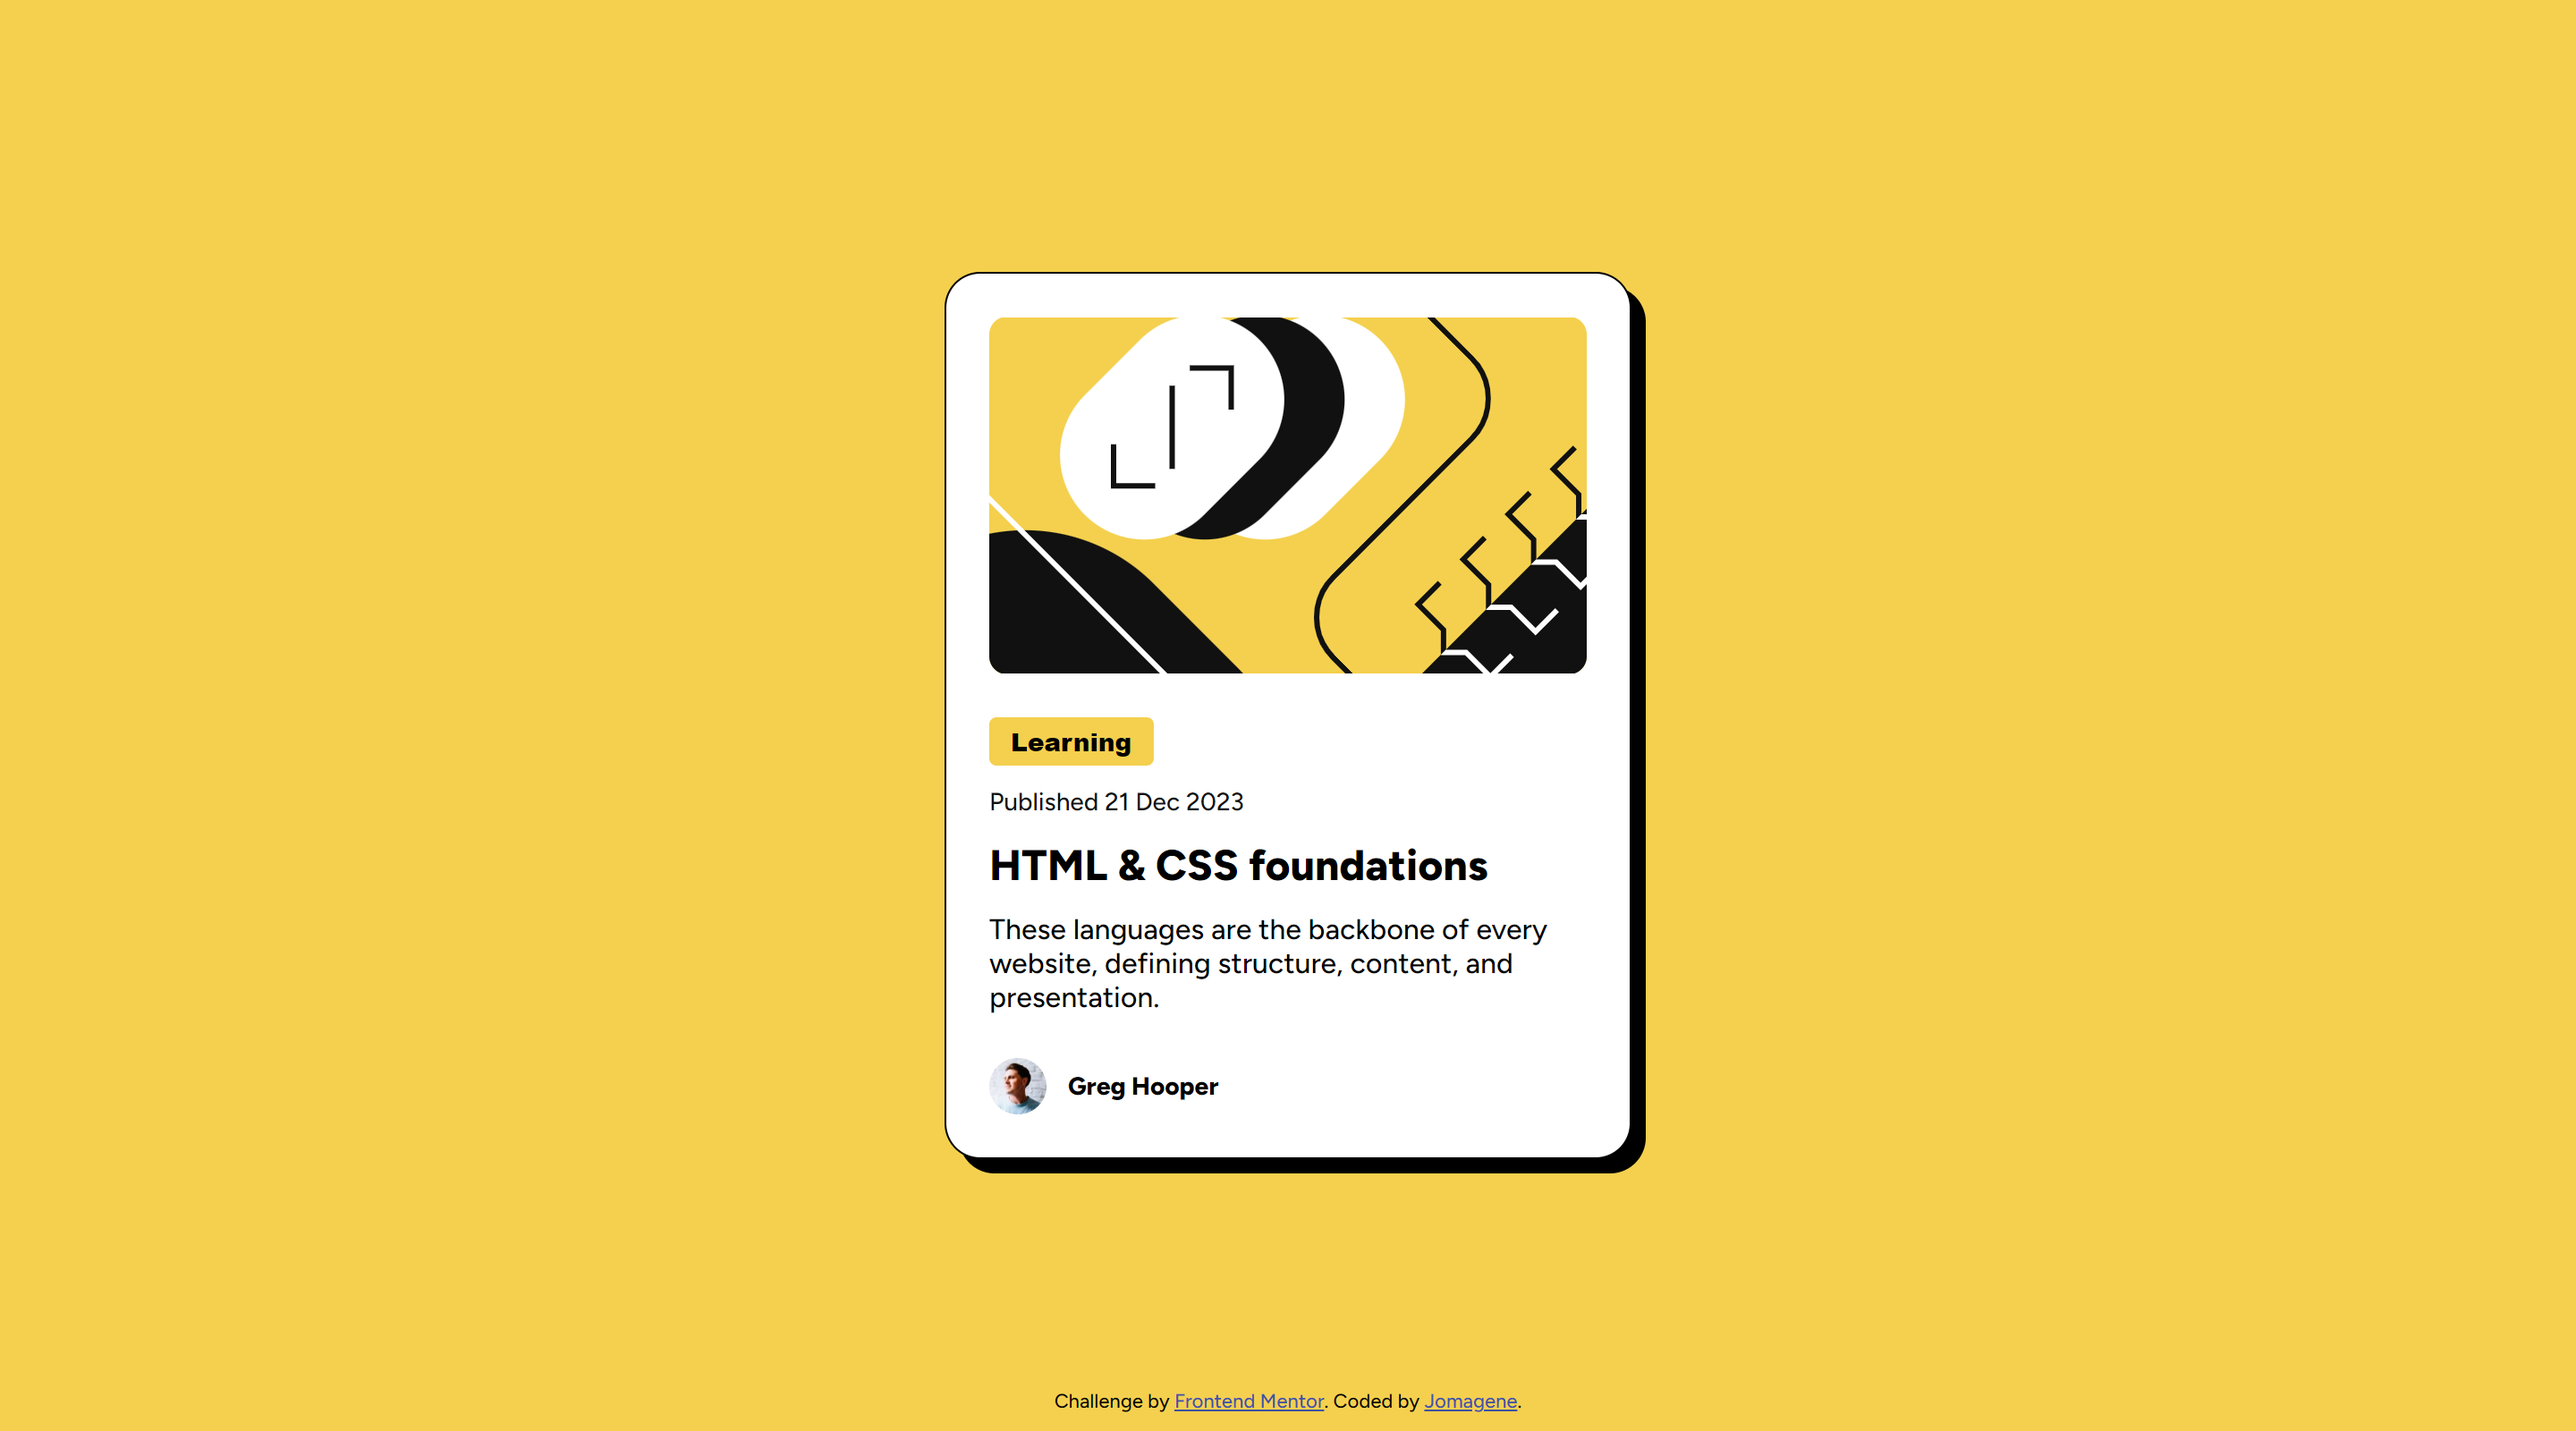
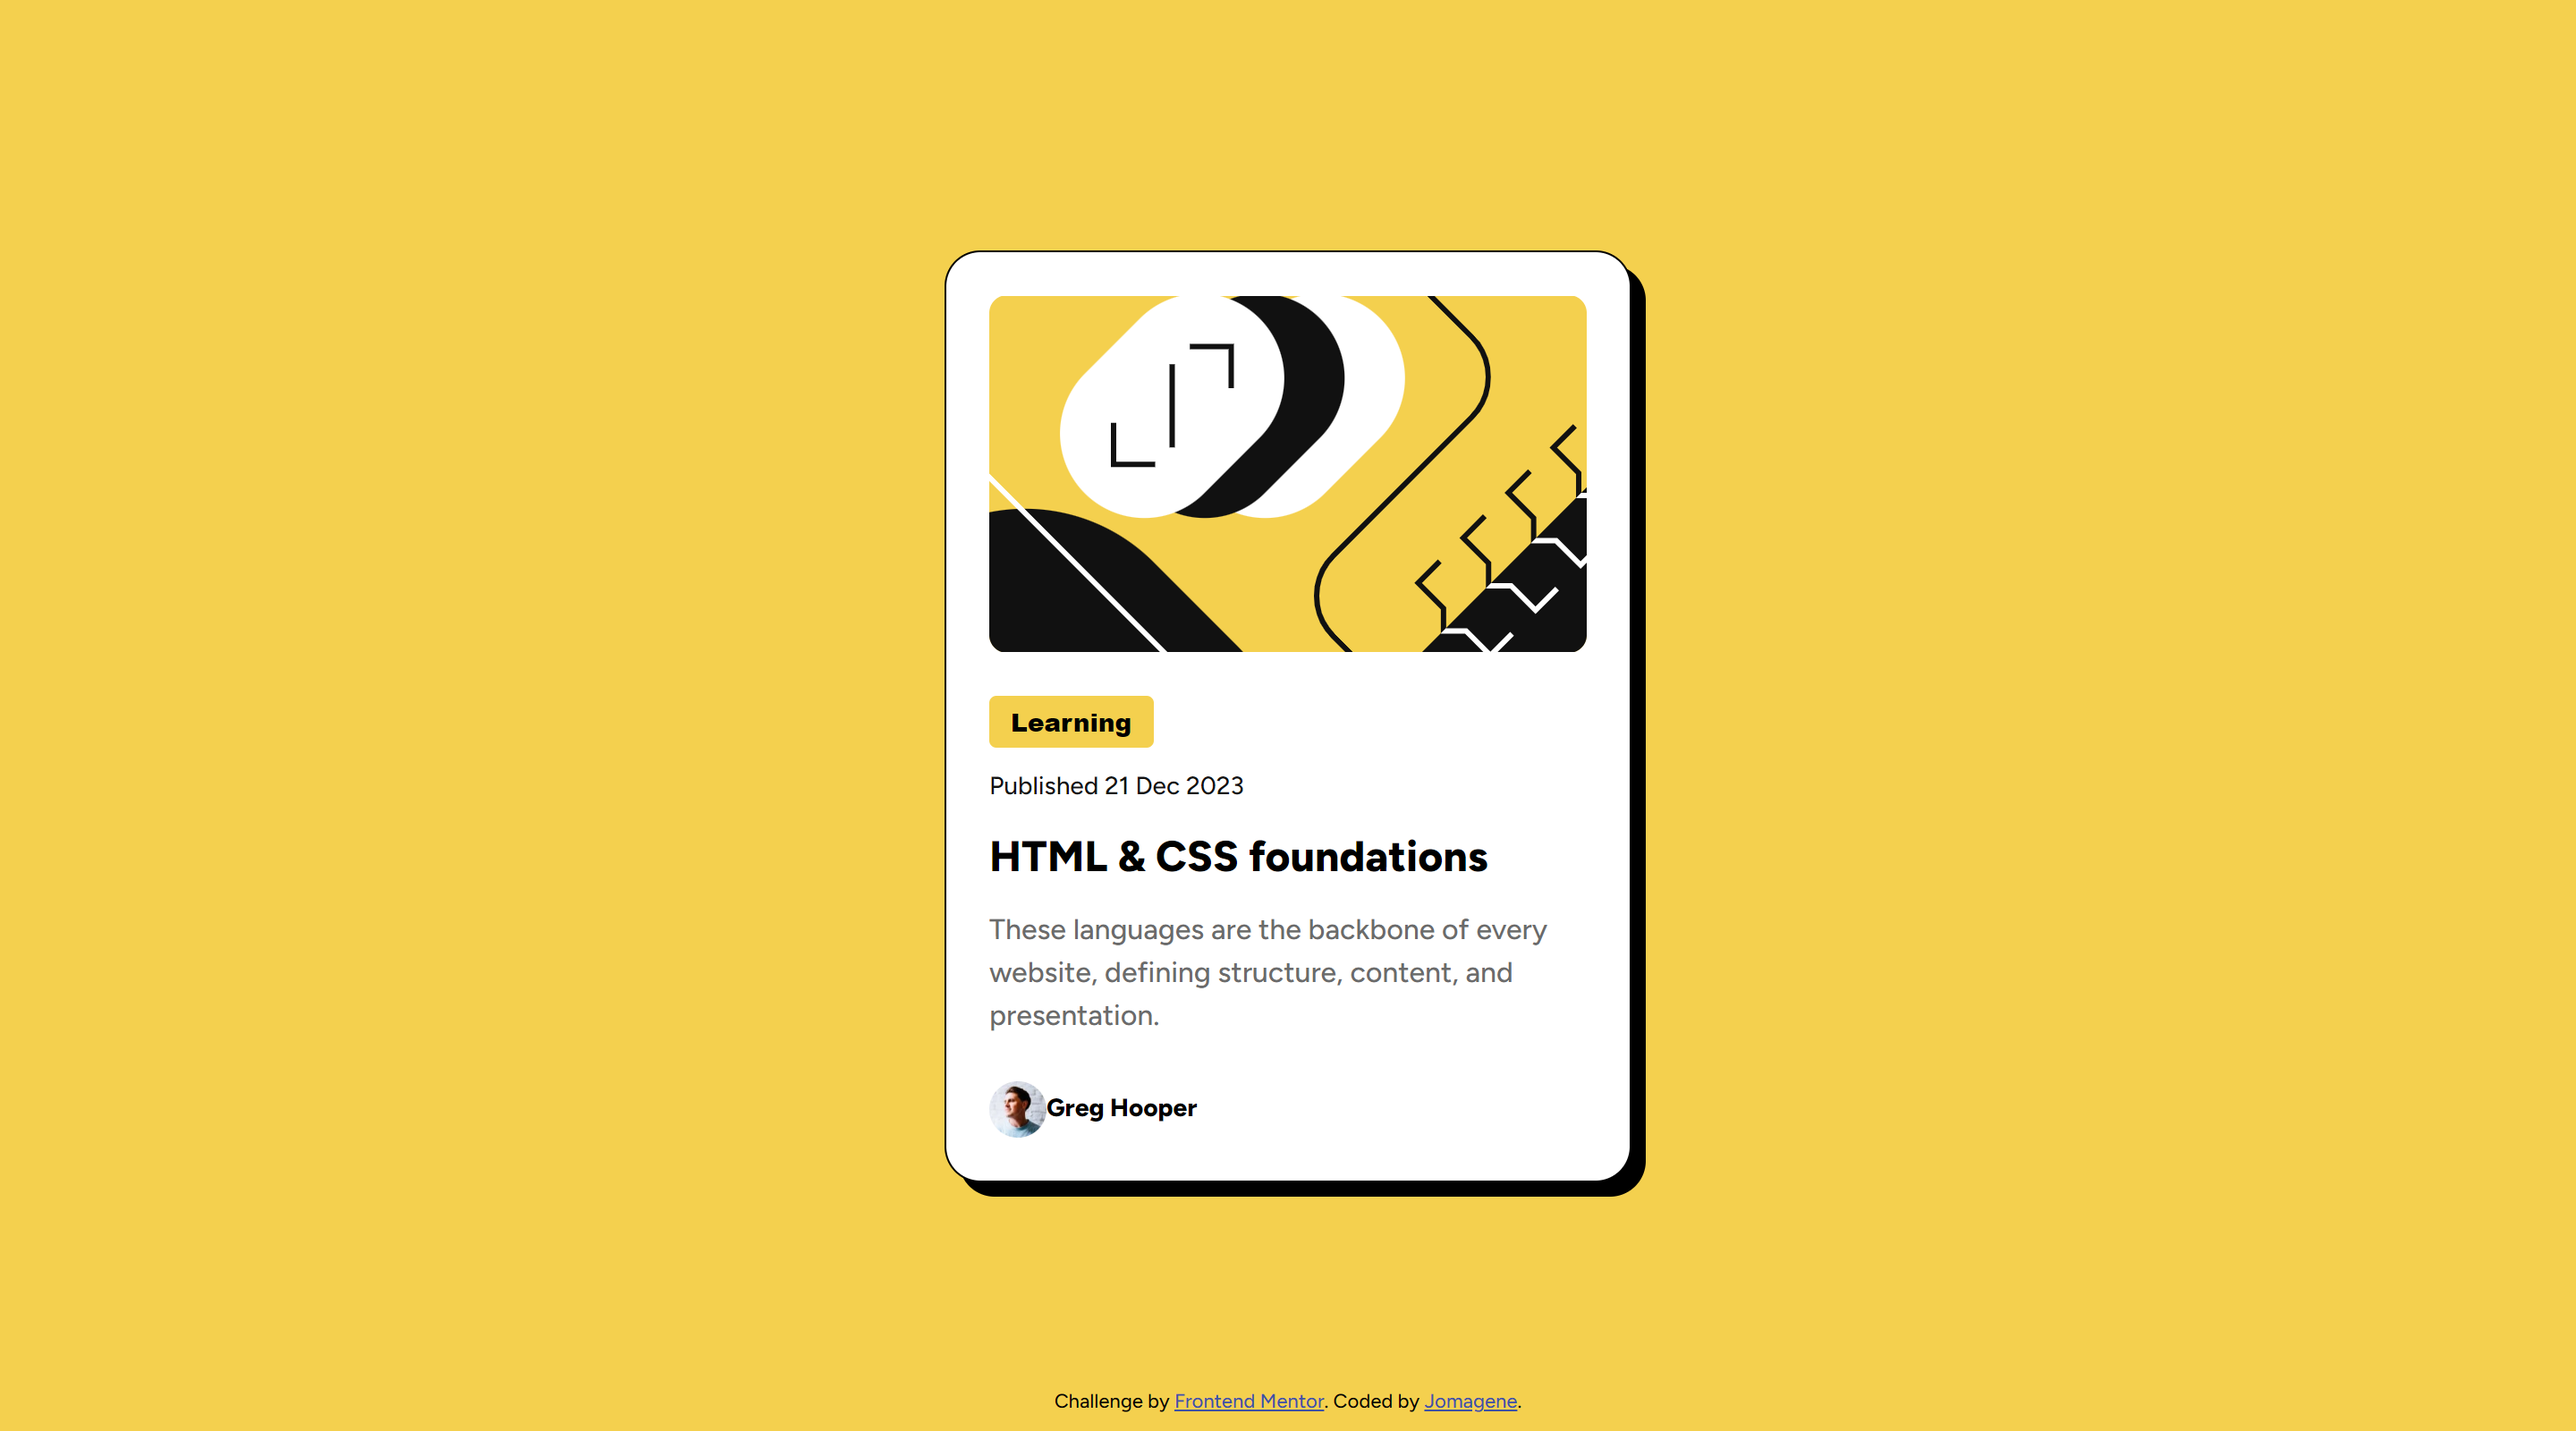
Improve the result to match perfectly the design provided

Changed region(s): [[0.3438, 0.1562, 0.6562, 0.8438]]

diff --git a/index.html b/index.html
@@ -20,7 +20,7 @@
           src="./assets/images/My-article.svg"
           alt="My article image illustration" />
       </section>
-      <section class="flex column gap-12">
+      <section class="flex column gap-11">
         <button class="bold flex flex-center rounded-3 button">Learning</button>
         <p class="publish-date">Published 21 Dec 2023</p>
         <h1 class="title bold">HTML & CSS foundations</h1>

diff --git a/style.css b/style.css
@@ -65,8 +65,8 @@ main {
   height: 100%;
   width: 100%;
 }
-.gap-12 {
-  gap: 12px;
+.gap-11 {
+  gap: 11px;
 }
 .gap-24 {
   gap: 24px;
@@ -117,12 +117,16 @@ main:hover {
 .publish-date,
 .name {
   font-size: 12px;
+  line-height: 150%;
 }
 .title {
   font-size: 20px;
+  line-height: 150%;
 }
 .description {
   font-size: 14px;
+  color: var(--gray-500);
+  line-height: 150%;
 }
 
 @media (min-width: 576px) {
